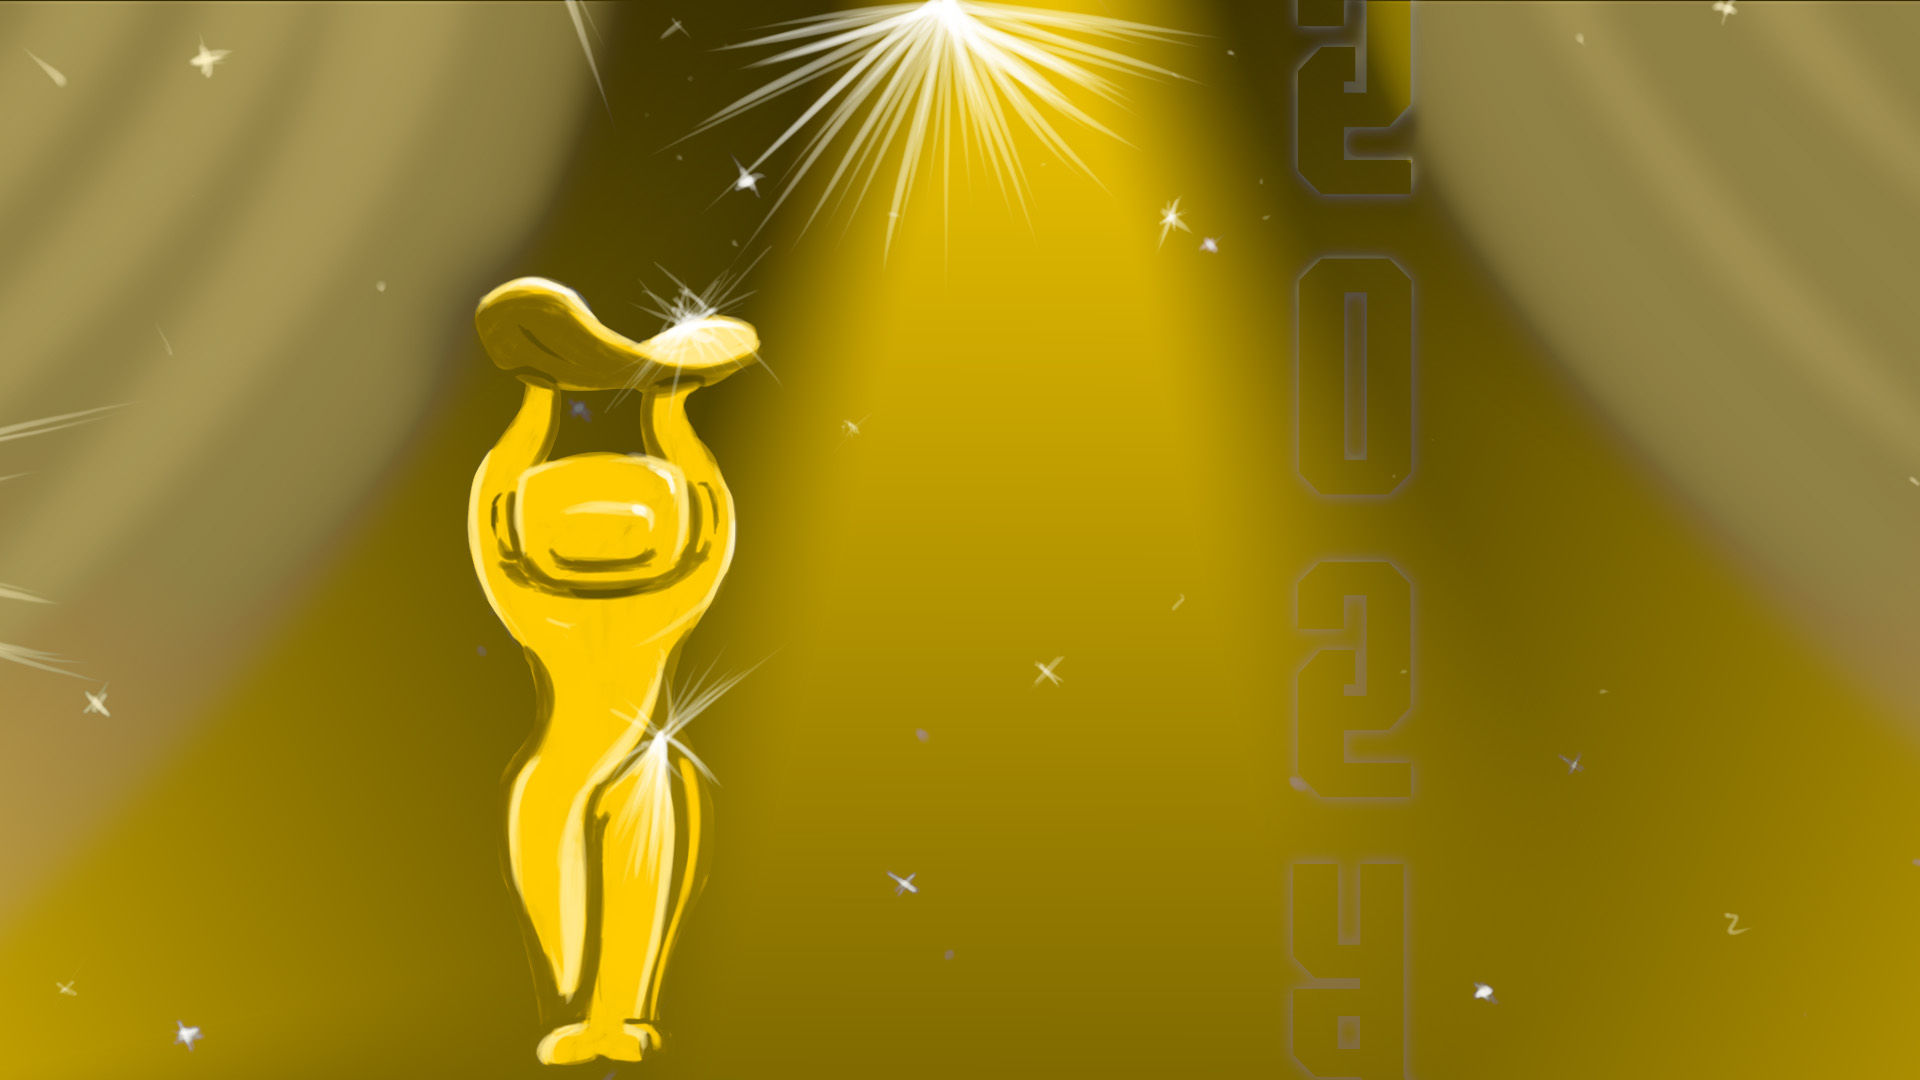
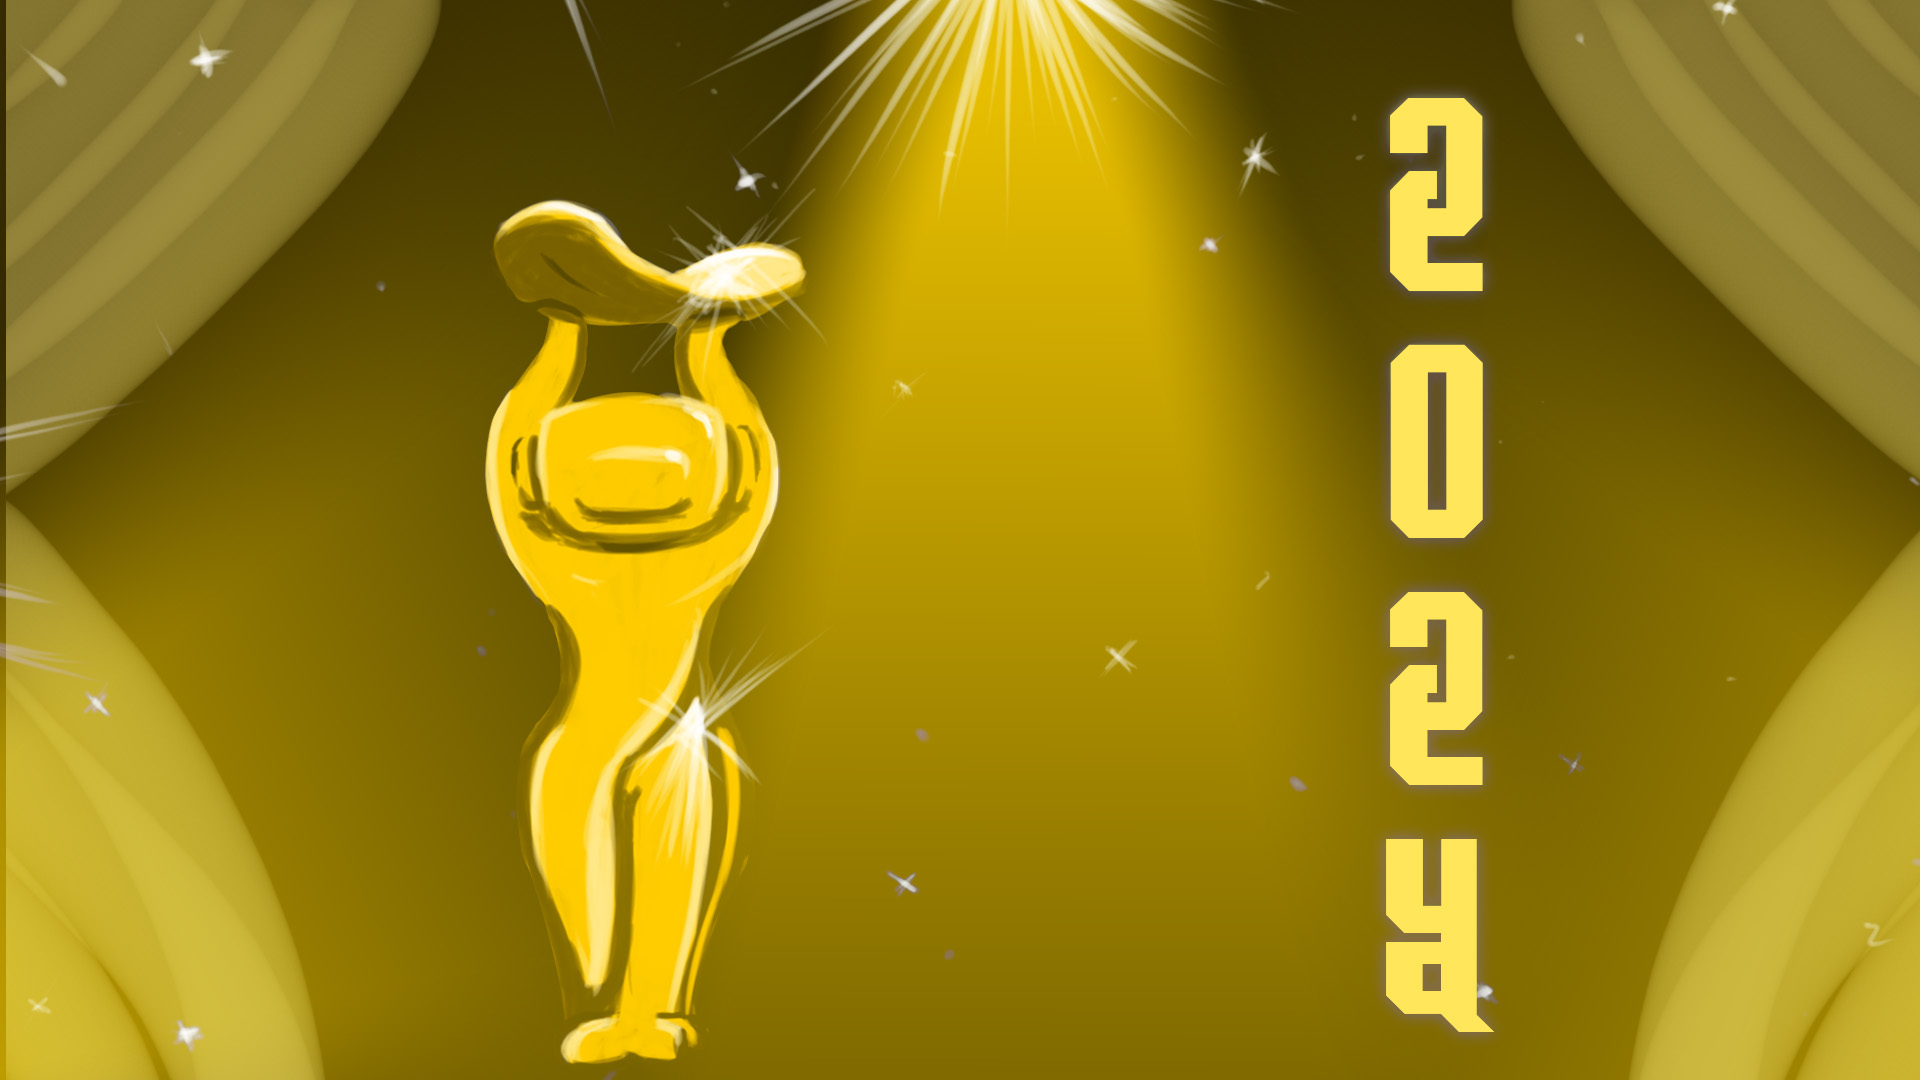
Stary night

diff --git a/index.html b/index.html
@@ -21,38 +21,62 @@
       background: #000;
     }
 
-    /* === BACKGROUND IMAGE (SHARP BASE) === */
-    .curtains {
+    /* === NORMAL BACKGROUND (LIKE BEFORE) === */
+    .background {
       position: fixed;
       inset: 0;
       background: url("website.jpg") center / cover no-repeat;
-      z-index: -4;
-    }
-
-    /* === BLURRED VERSION OF SAME IMAGE === */
-    .poster-bg {
-      position: fixed;
-      inset: -20%;
-      background: url("website.jpg") center / cover no-repeat;
-      filter: blur(26px);
-      opacity: 0.5;
-      transform: scale(1.25);
       z-index: -3;
     }
 
-    /* === NEUTRAL DARK OVERLAY (NO COLOR TINT) === */
-    .poster-overlay {
+    /* === SOFT DARK GRADIENT (SUBTLE, OPTIONAL) === */
+    .overlay {
       position: fixed;
       inset: 0;
       background: radial-gradient(
         circle at center,
-        rgba(0,0,0,0.2),
-        rgba(0,0,0,0.9)
+        rgba(0,0,0,0.15),
+        rgba(0,0,0,0.75)
       );
       z-index: -2;
+      pointer-events: none;
     }
 
-    /* === GOLD CARD (UNCHANGED) === */
+    /* === STAR / GLITTER LAYER === */
+    .stars {
+      position: fixed;
+      inset: 0;
+      z-index: -1;
+      pointer-events: none;
+      overflow: hidden;
+    }
+
+    .star {
+      position: absolute;
+      width: 2px;
+      height: 2px;
+      border-radius: 50%;
+      background: rgba(255, 245, 200, 0.95);
+      box-shadow:
+        0 0 4px rgba(255, 230, 160, 0.9),
+        0 0 8px rgba(255, 200, 80, 0.6);
+      opacity: 0.8;
+      animation:
+        floatUp linear infinite,
+        twinkle ease-in-out infinite;
+    }
+
+    @keyframes floatUp {
+      from { transform: translateY(40px); }
+      to   { transform: translateY(-120vh); }
+    }
+
+    @keyframes twinkle {
+      0%, 100% { opacity: 0.2; }
+      50% { opacity: 1; }
+    }
+
+    /* === CARD === */
     .card {
       background: linear-gradient(
         180deg,
@@ -67,7 +91,6 @@
         0 0 0 1px rgba(255,215,0,0.18),
         0 30px 90px rgba(0,0,0,0.85),
         inset 0 0 40px rgba(255,215,0,0.05);
-      position: relative;
       z-index: 1;
     }
 
@@ -125,24 +148,16 @@
       cursor: pointer;
       text-transform: uppercase;
       box-shadow: 0 10px 30px rgba(212,175,55,0.35);
-      transition: transform 0.15s ease, box-shadow 0.15s ease;
-    }
-
-    button:hover {
-      transform: translateY(-1px);
-      box-shadow: 0 16px 45px rgba(212,175,55,0.55);
     }
   </style>
 </head>
 
 <body>
 
-  <!-- Background layers -->
-  <div class="curtains"></div>
-  <div class="poster-bg"></div>
-  <div class="poster-overlay"></div>
+  <div class="background"></div>
+  <div class="overlay"></div>
+  <div class="stars" id="stars"></div>
 
-  <!-- Nomination card -->
   <form
     class="card"
     action="https://formspree.io/f/mzznajod"
@@ -154,13 +169,6 @@
       An extremely prestigious ceremony<br>
       with absolutely no consequences.
     </div>
-
-    <input
-      type="email"
-      name="_replyto"
-      value="noreply@javla-awards.local"
-      hidden
-    >
 
     <label>Category</label>
     <select name="category" required>
@@ -190,6 +198,33 @@
 
     <button type="submit">Lock In Nomination</button>
   </form>
+
+  <script>
+    // === STAR GENERATOR ===
+    const container = document.getElementById('stars');
+    const COUNT = 40;
+
+    for (let i = 0; i < COUNT; i++) {
+      const star = document.createElement('span');
+      star.className = 'star';
+
+      const size = Math.random() * 2 + 1;
+      star.style.width = size + 'px';
+      star.style.height = size + 'px';
+      star.style.left = Math.random() * 100 + '%';
+      star.style.top = Math.random() * 120 + 'vh';
+
+      const floatTime = 20 + Math.random() * 20;
+      const twinkleTime = 2 + Math.random() * 3;
+
+      star.style.animationDuration =
+        `${floatTime}s, ${twinkleTime}s`;
+      star.style.animationDelay =
+        `${Math.random() * 20}s, ${Math.random() * 3}s`;
+
+      container.appendChild(star);
+    }
+  </script>
 
 </body>
 </html>
